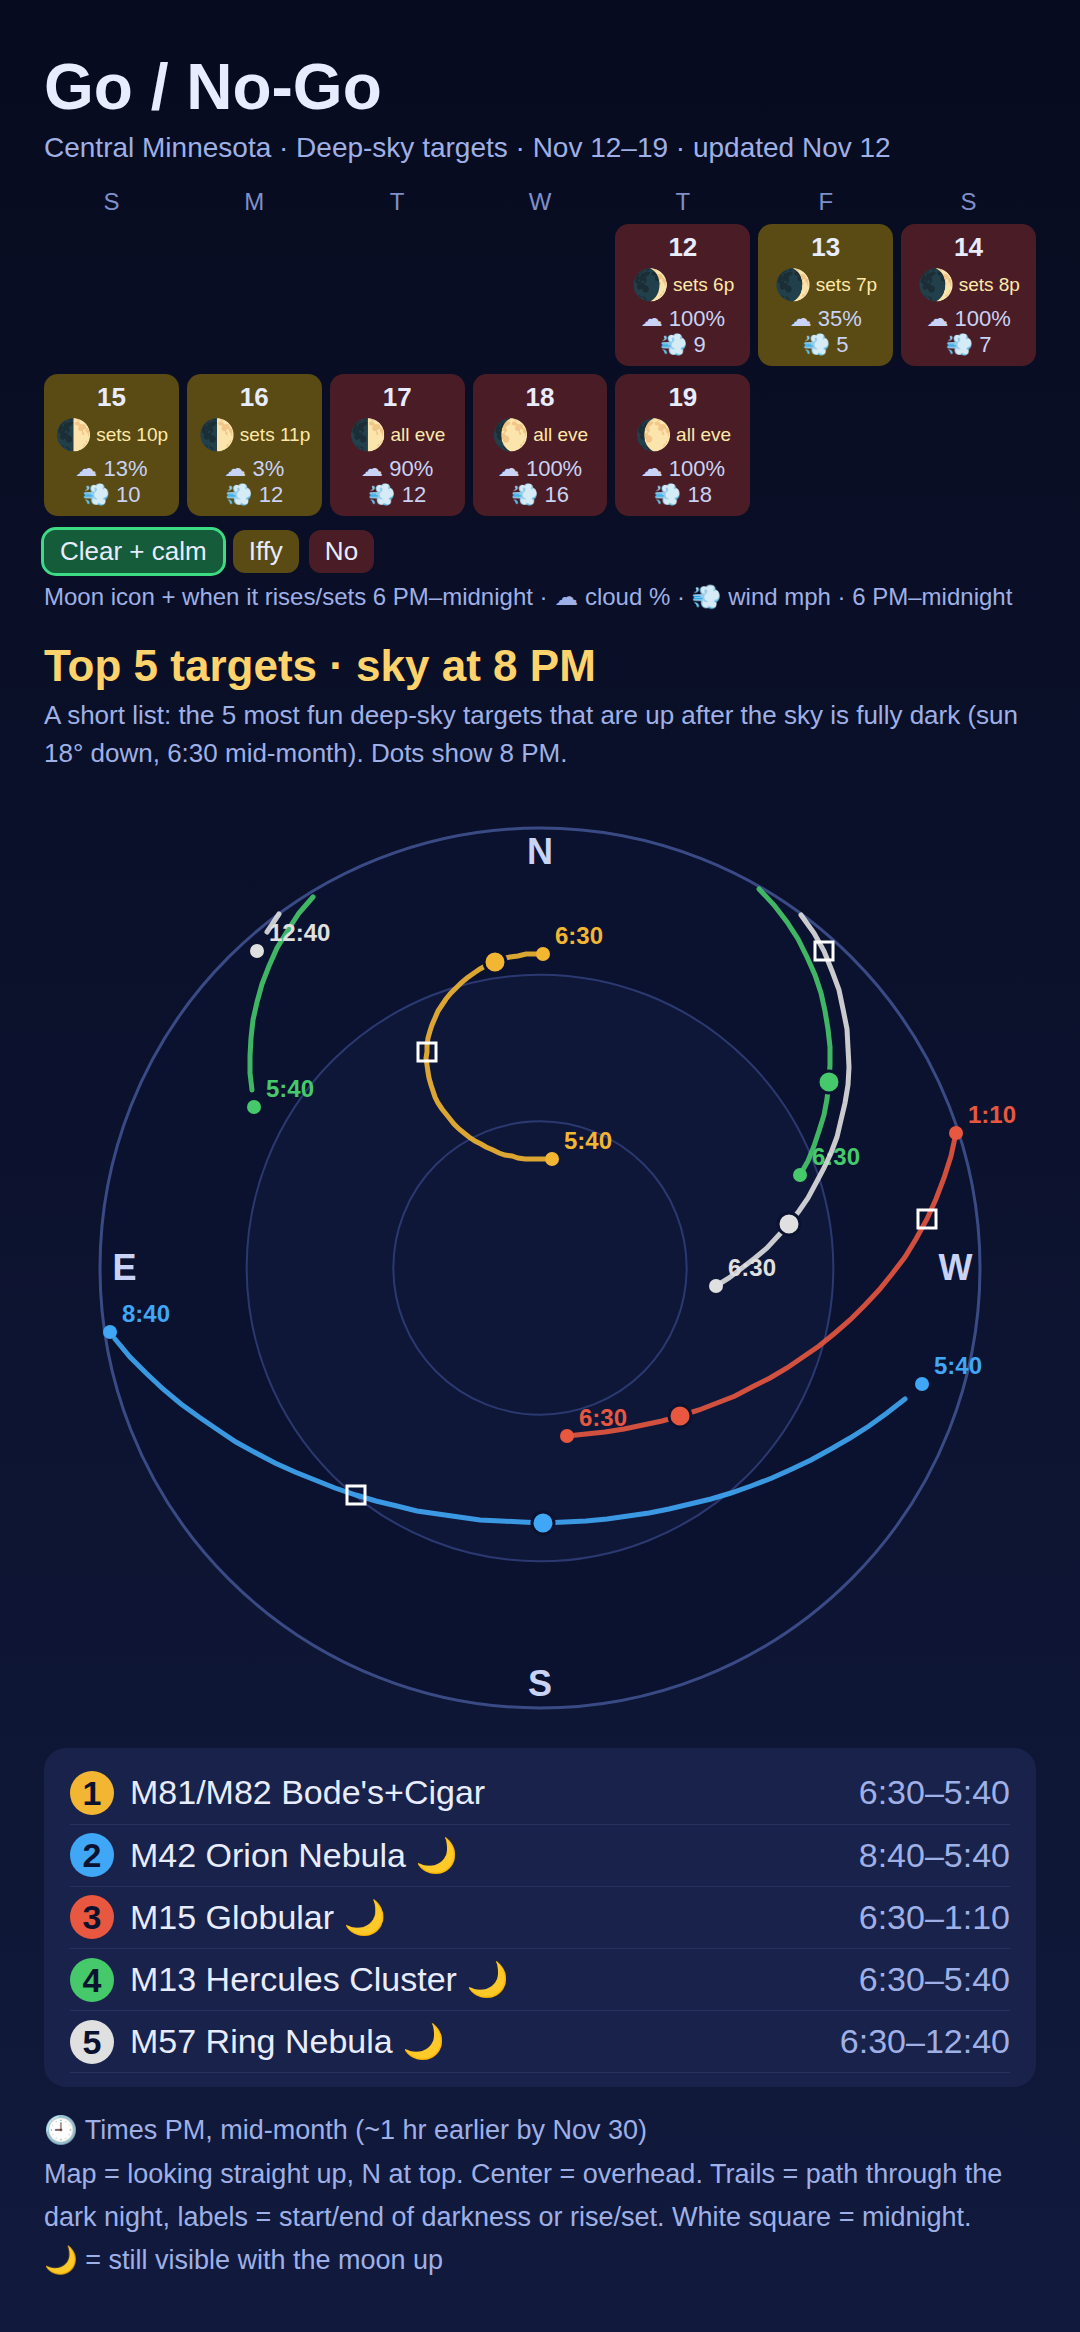
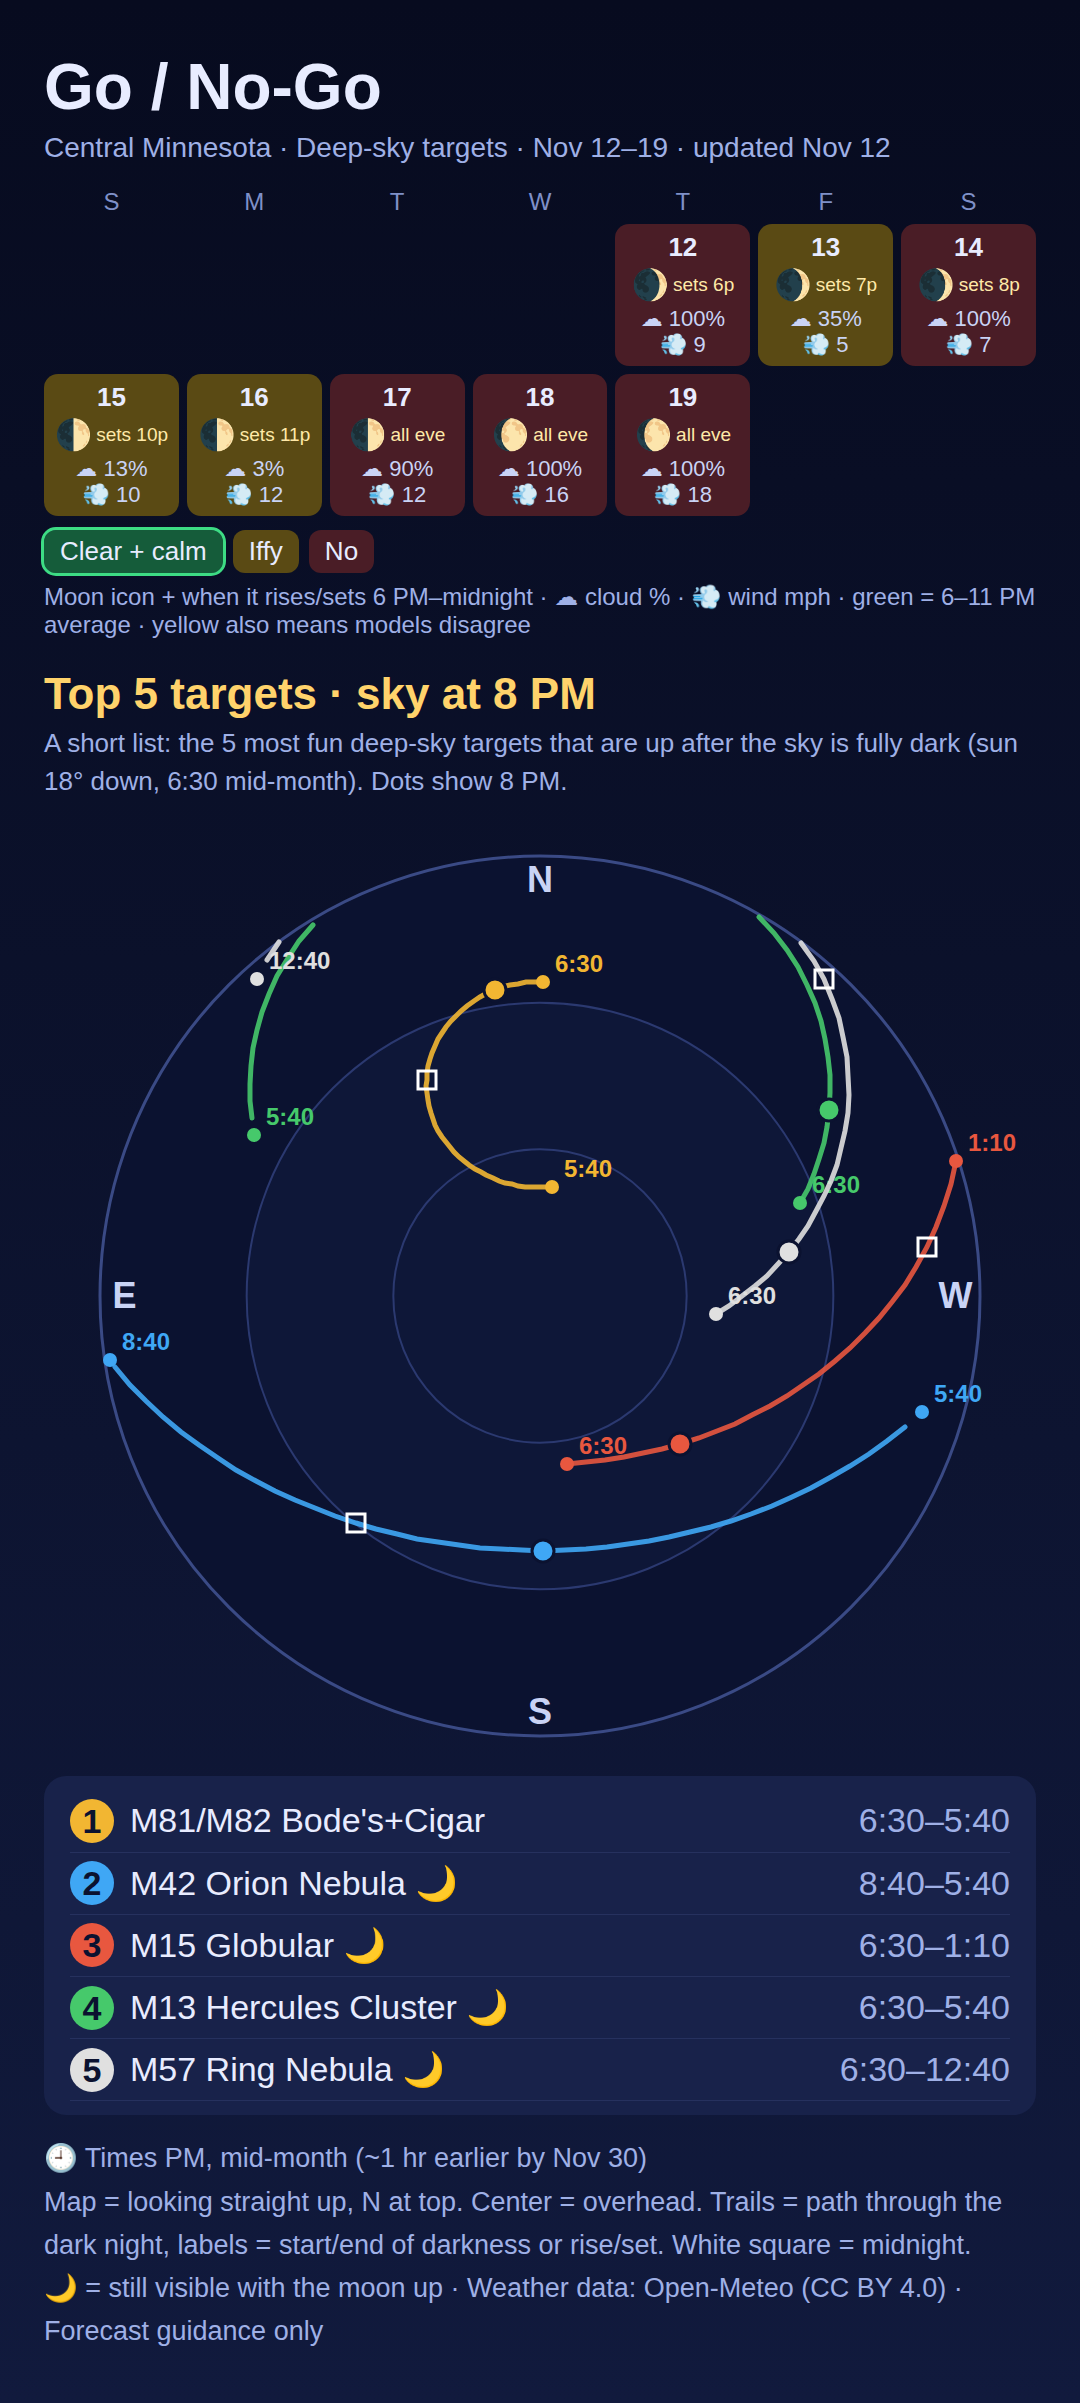
Update stargazing forecast (Nov 12)

diff --git a/_includes/forecast_status.html b/_includes/forecast_status.html
@@ -1,0 +1,2 @@
+<p class="notice--info"><strong>Forecast updated Nov 12:</strong> Next good night: Fri Nov 13 (models disagree): M15 Globular, 7:00 pm-10:00 pm (clear 3.0h, longest 7:00 pm-8:00 pm, low 30F)</p>
+<p class="small">Weather data: <a href="https://open-meteo.com/">Open-Meteo</a> (CC BY 4.0). Forecast guidance only — check the sky before heading out.</p>
